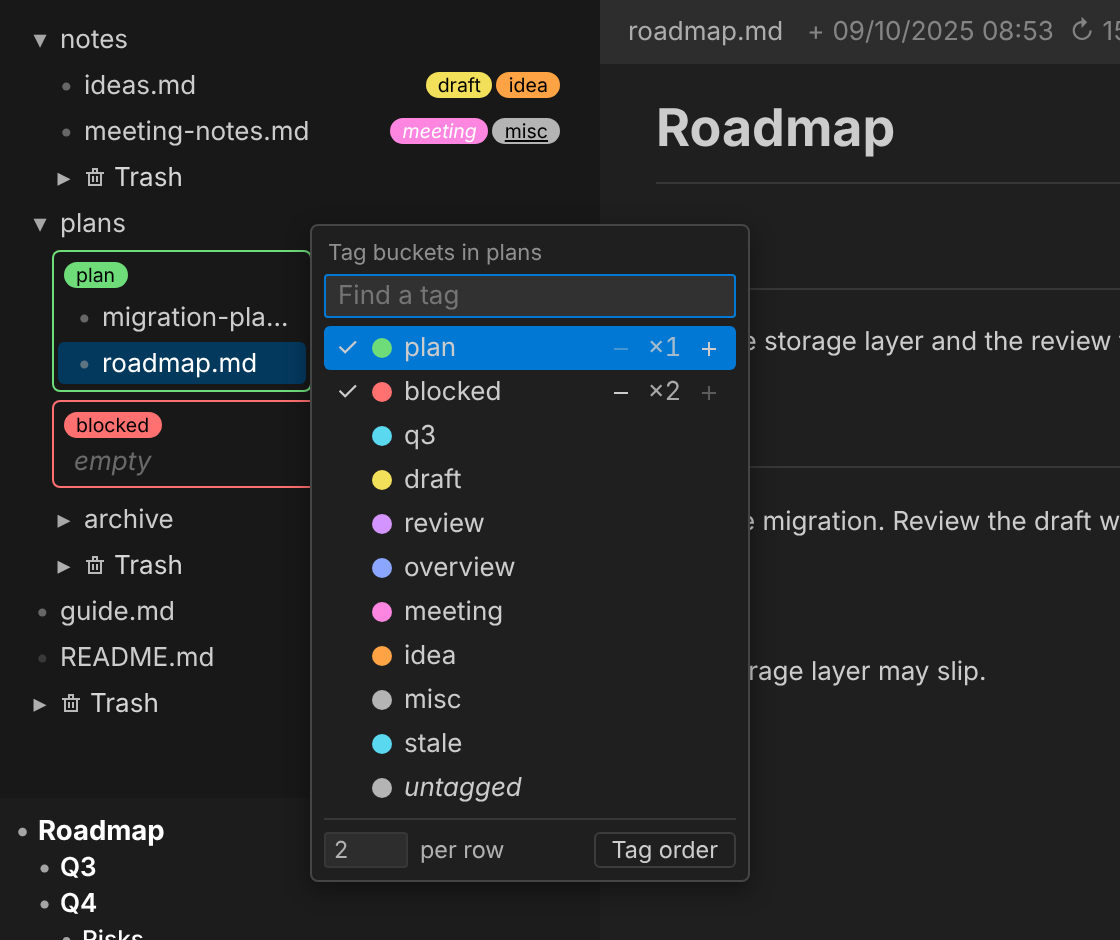
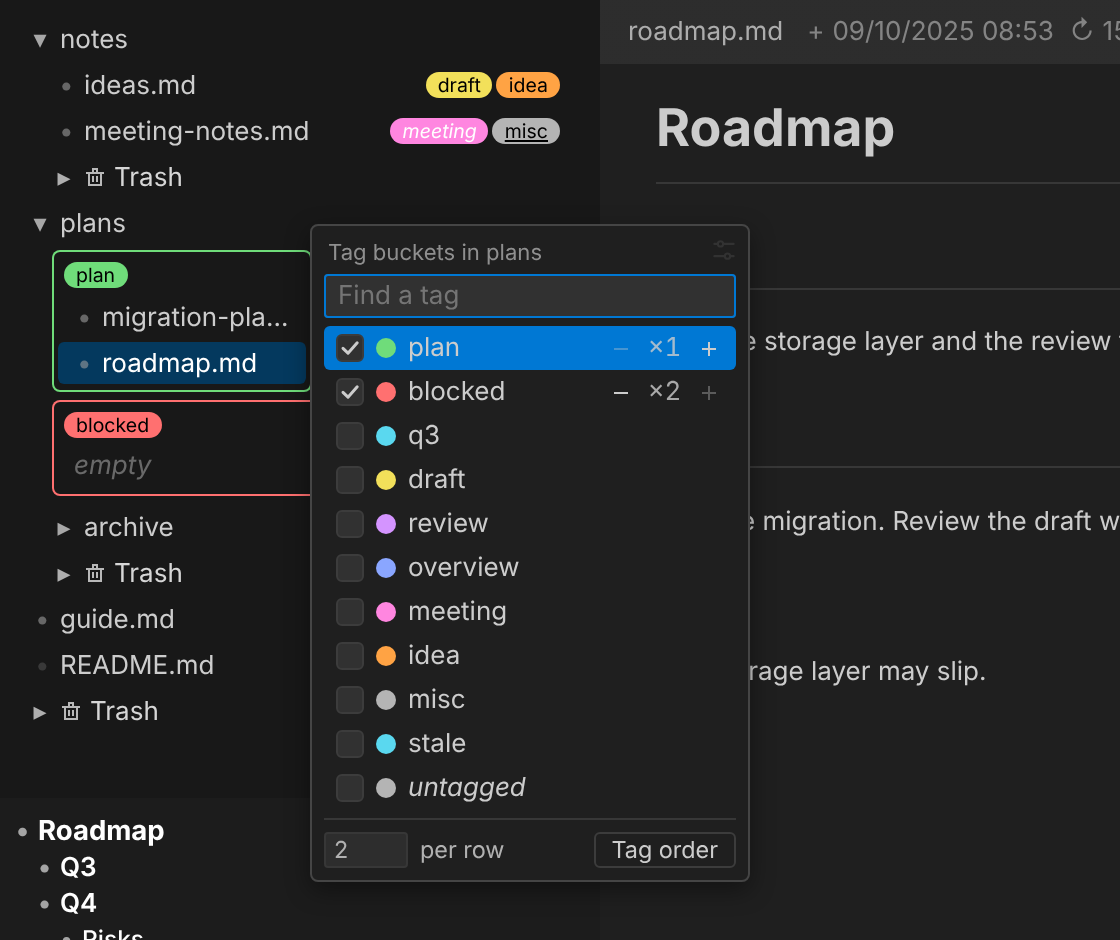
chore: release 0.13.0
Claude-Session: https://claude.ai/code/session_01GRmFA6iAkEsBtRTgga4DRB

diff --git a/.github/releases/v0.13.0.md b/.github/releases/v0.13.0.md
@@ -1,0 +1,13 @@
+Scrollbar headings that come up on hover and are picked by rules, and tag buckets that are harder to change by accident.
+
+**Headings beside the scrollbar.**
+- A new option says when they come up: off, on scroll (as before), or on hover, while the pointer is within a set distance of the scrollbar (40 px by default, 10 to 400). On hover a scroll does not bring them up, and they fade the set time after the pointer leaves.
+- The H1 to H6 buttons are replaced by a box of rules split by commas, `h1-3` by default: `h2`, `h1-3`, `h1h5` for levels; `h4:todo` for the `####` headings with the word *todo*; a word alone for every level. Words match whole and in any case, and `*` stands for any run of characters, as in `plan*`. Rules may overlap; a heading any of them takes is shown once. A part that is no rule is skipped, and the box is outlined in red and names it in its tooltip. The levels picked before are carried over as rules.
+- A file changed on disk while the headings are up keeps them up, redrawn from its headings as they are now.
+
+**Tag buckets.**
+- In the bucket picker, only a tag's checkbox makes or removes its bucket; a click elsewhere on the row only highlights it, so a slip while dragging a tag or setting its span changes nothing. `Enter` still toggles the highlighted tag.
+- The *empty* line in a bucket with no files is now exactly as tall as a file's row, at every tree text size.
+- A sliders button in the picker's top right corner, shown while the pointer is on the picker, opens the options at the bucket settings, which now have a **Tag buckets** section of their own. In a file's tag picker it opens them at **Tags**.
+
+Install: download `docs-panel-0.13.0.vsix` below, then run `code --install-extension docs-panel-0.13.0.vsix`.
